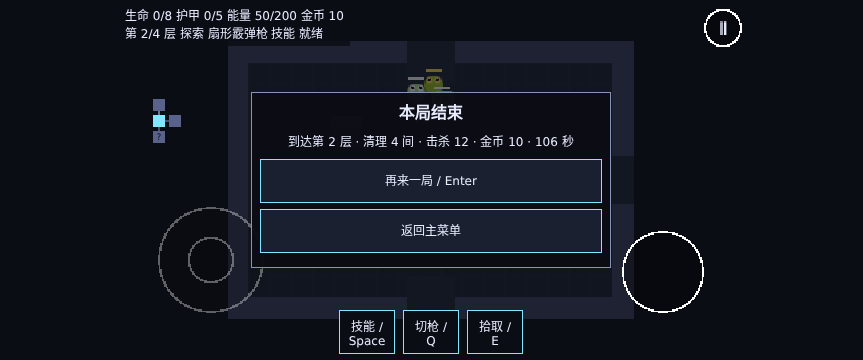
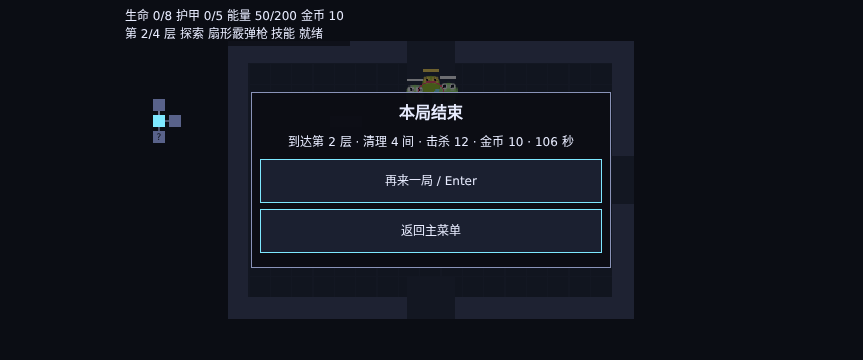
fix(demo): 收尾输入隔离与完整流程验收

diff --git a/src/game/ui/InputScene.ts b/src/game/ui/InputScene.ts
@@ -83,10 +83,12 @@ export class InputScene extends Scene {
       );
     const g = this.graphics;
     g.clear();
-    const paused = c.battle.scene.isPaused();
+    const paused = c.battle.scene.isPaused(),
+      locked = c.battle.physics.world.isPaused;
+    this.pauseLabel.setVisible(!locked);
     this.pausePanel?.update(paused);
     this.resumeLabel.setVisible(paused && !this.pausePanel);
-    this.actions?.setVisible(!paused);
+    this.actions?.setVisible(!paused && !locked);
     if (s !== this.layoutScale) {
       this.layoutScale = s;
       this.resumeLabel.setFontSize(UI.resume.fontSize / s);
@@ -98,8 +100,9 @@ export class InputScene extends Scene {
       g.fillStyle(UI.look.pauseColor, UI.look.pauseAlpha).fillRect(0, 0, GAME_WIDTH, GAME_HEIGHT);
       this.circle(GAME_WIDTH / 2, GAME_HEIGHT / 2, UI.resume.radius / s, false, 1);
     }
-    this.circle(GAME_WIDTH - UI.pause.inset / s, UI.pause.inset / s, UI.pause.radius / s, paused, 1);
-    if (c.touchVisible && !paused) {
+    if (!locked)
+      this.circle(GAME_WIDTH - UI.pause.inset / s, UI.pause.inset / s, UI.pause.radius / s, paused, 1);
+    if (c.touchVisible && !paused && !locked) {
       const t = c.touch;
       this.circle(
         t.x / s,
@@ -123,7 +126,7 @@ export class InputScene extends Scene {
         1,
       );
     }
-    const mouse = c.frame.source === 'keyboard' && c.frame.aim !== null && !paused;
+    const mouse = c.frame.source === 'keyboard' && c.frame.aim !== null && !paused && !locked;
     this.game.canvas.style.cursor = mouse ? 'none' : '';
     if (mouse) {
       const x = Math.floor(c.mouse.x / s) + 0.5,

diff --git a/src/game/ui/DemoHud.ts b/src/game/ui/DemoHud.ts
@@ -1,3 +1,4 @@
+import { guardGameUi } from './guardGameUi';
 import { LOOT_RULES } from '../../data/loot';
 import { WEAPONS } from '../../data/weapons';
 import { t, type TextKey } from '../../i18n/t';
@@ -12,6 +13,7 @@ import './demo.css';
 
 /** 灰盒 HUD：固定 DOM 对象；只有计数文字按 4 Hz 刷新，小地图只在房间状态变化时画。 */
 export class DemoHud {
+  saveAvailable = true;
   private readonly root = document.createElement('div');
   private readonly status = document.createElement('div');
   private readonly hint = document.createElement('div');
@@ -67,6 +69,7 @@ export class DemoHud {
     );
     this.modal.append(this.shop, this.restart, this.menu);
     this.root.append(this.status, this.map, this.hint, this.modal);
+    guardGameUi(this.root, scene, this.abort.signal);
     document.body.append(this.root);
     this.layout();
     scene.scale.on('resize', this.layout);
@@ -74,7 +77,7 @@ export class DemoHud {
     window.addEventListener(
       'keydown',
       (e) => {
-        if (this.mode === 'none' || e.repeat) return;
+        if (!scene.game.input.enabled || this.mode === 'none' || e.repeat) return;
         if (e.key === 'Escape') {
           e.preventDefault();
           e.stopImmediatePropagation();
@@ -199,6 +202,7 @@ export class DemoHud {
         this.status.textContent += '\n' + t('hud.boss', { hp: Math.ceil(actor.hp), maxHp: actor.maxHp });
         break;
       }
+    if (!this.saveAvailable) this.hint.textContent = t('save.unavailable');
     if (this.mapRevision !== d.revision) {
       this.drawMap();
       this.mapRevision = d.revision;

diff --git a/src/game/ui/MenuPanel.ts b/src/game/ui/MenuPanel.ts
@@ -1,3 +1,4 @@
+import { guardGameUi } from './guardGameUi';
 import { settings } from '../../services/settings';
 import { t } from '../../i18n/t';
 import { addSettings } from './SettingsControls';
@@ -49,12 +50,13 @@ export class MenuPanel {
     this.root.append(title, subtitle, start, resume, help, controls, stats, note);
     addSettings(this.root, this.abort.signal, () => scene.scene.restart());
     document.documentElement.lang = settings.language;
+    guardGameUi(this.root, scene, this.abort.signal);
     document.body.append(this.root);
     this.navigation = new MenuNavigation(this.root, scene);
     window.addEventListener(
       'keydown',
       (e) => {
-        if (e.repeat || e.target instanceof HTMLButtonElement) return;
+        if (!scene.game.input.enabled || e.repeat || e.target instanceof HTMLButtonElement) return;
         if (e.key === 'Enter') scene.scene.start('Game', {});
       },
       { signal: this.abort.signal },

diff --git a/tests/e2e/entities.spec.ts b/tests/e2e/entities.spec.ts
@@ -1,7 +1,7 @@
 import { LOOT_RULES } from '../../src/data/loot';
 import { expect, test } from '@playwright/test';
 import { build } from 'vite';
-import { mkdtemp, readFile, rm } from 'node:fs/promises';
+import { mkdtemp, readFile, rm, writeFile } from 'node:fs/promises';
 import { createServer } from 'node:http';
 import { tmpdir } from 'node:os';
 import { join, resolve } from 'node:path';
@@ -267,6 +267,7 @@ test('100 秒锁步压力：持续 30 怪、弹丸与反馈池不增长', async 
   await page.goto(`${url}/demo.html`);
   await page.waitForFunction(() => window.stressScenario);
   const result = await page.evaluate(() => window.stressScenario());
+  await writeFile(info.outputPath('stress.json'), JSON.stringify(result, null, 2));
   await info.attach('stress-counters', {
     body: JSON.stringify(result, null, 2),
     contentType: 'application/json',

diff --git a/src/game/ui/PausePanel.ts b/src/game/ui/PausePanel.ts
@@ -1,3 +1,4 @@
+import { guardGameUi } from './guardGameUi';
 import { t } from '../../i18n/t';
 import type { Scene } from 'phaser';
 import { MenuNavigation } from './MenuNavigation';
@@ -18,6 +19,7 @@ export class PausePanel {
     exit.addEventListener('click', () => battle.scene.start('Menu'), { signal: this.abort.signal });
     this.root.append(continueButton, exit);
     this.root.hidden = true;
+    guardGameUi(this.root, ui, this.abort.signal);
     document.body.append(this.root);
     this.navigation = new MenuNavigation(this.root, ui);
   }

diff --git a/src/game/ui/guardGameUi.ts b/src/game/ui/guardGameUi.ts
@@ -1,0 +1,11 @@
+import type { Scene } from 'phaser';
+/** DOM 菜单也服从自动暂停：Phaser 睡眠时不能靠键盘/脚本排队切场景。 */
+export function guardGameUi(root: HTMLElement, scene: Scene, signal: AbortSignal): void {
+  const guard = (event: Event) => {
+    if (scene.game.input.enabled) return;
+    event.preventDefault();
+    event.stopImmediatePropagation();
+  };
+  root.addEventListener('click', guard, { signal, capture: true });
+  root.addEventListener('keydown', guard, { signal, capture: true });
+}

diff --git a/src/game/ui/ActionButtons.ts b/src/game/ui/ActionButtons.ts
@@ -31,7 +31,11 @@ export class ActionButtons {
       button.addEventListener(
         'click',
         () => {
-          if (!controls.battle.scene.isPaused() && !controls.battle.physics.world.isPaused)
+          if (
+            scene.game.input.enabled &&
+            !controls.battle.scene.isPaused() &&
+            !controls.battle.physics.world.isPaused
+          )
             controls.state.action(code);
           button.blur();
         },

diff --git a/src/game/systems/DemoSession.ts b/src/game/systems/DemoSession.ts
@@ -130,6 +130,12 @@ export class DemoSession {
     const p = this.player;
     if (!p) return;
     if (this.dungeon.finished) {
+      if (!this.endTime)
+        for (const slot of this.bridge.bullets.slots)
+          if (slot.id) {
+            this.sim.releaseBullet(slot.id);
+            this.bridge.bullets.recycle(slot);
+          }
       this.endTime += dt;
       if (this.endTime >= BALANCE.deathRestartDelay) {
         this.settled = true;

diff --git a/src/game/scenes/GameScene.ts b/src/game/scenes/GameScene.ts
@@ -86,6 +86,7 @@ export class GameScene extends M1Scene {
     }
     this.demo.update();
     this.persistence?.update();
+    if (this.hud) this.hud.saveAvailable = this.persistence?.saved ?? true;
     this.objects?.update();
     this.hud?.update(delta);
     this.tools?.update(delta);
